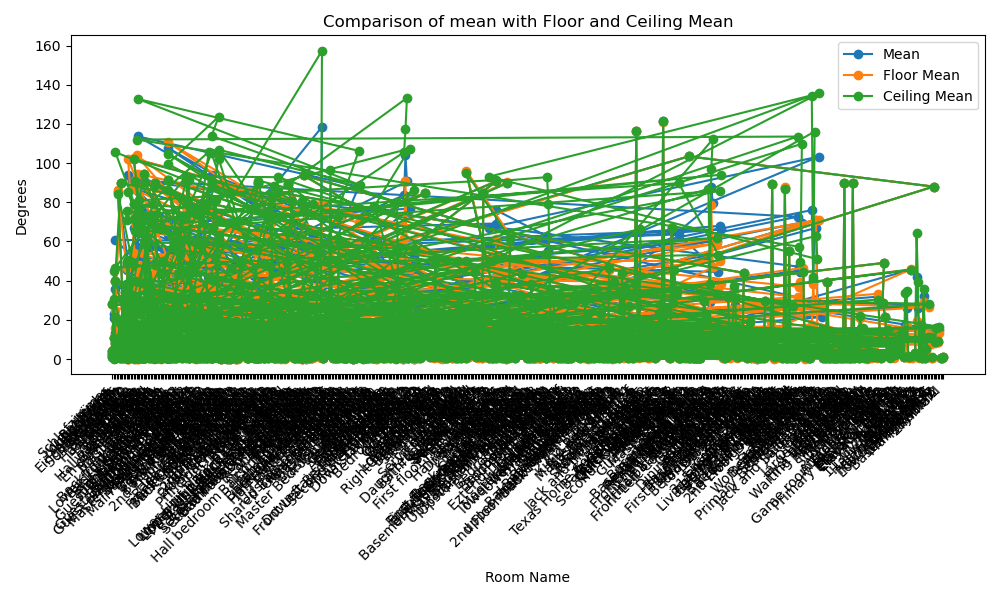
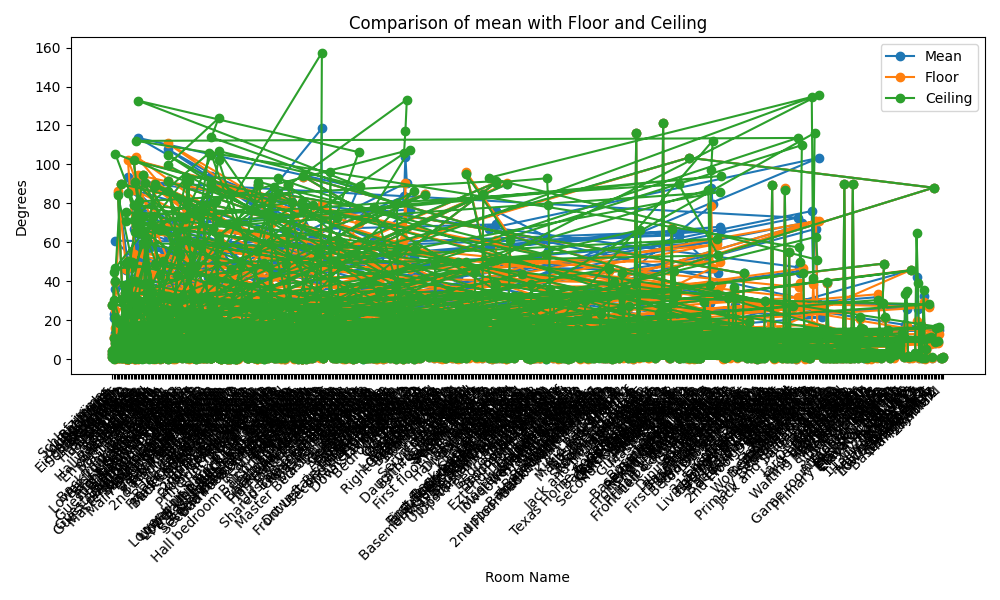
tests for function.py added

diff --git a/function.py b/function.py
@@ -9,8 +9,18 @@ def save_plot(plot_path):
     plt.close()
 
 
+def plot_bar_chart(df, x_col, y_col, colors, title, xlabel, ylabel, plot_path):
+    plt.figure(figsize=(10, 6))
+    plt.bar(df[x_col], df[y_col], color=colors)
+    plt.title(title, fontsize=16)
+    plt.xlabel(xlabel, fontsize=12)
+    plt.ylabel(ylabel, fontsize=12)
+    plt.xticks(rotation=45, ha='right')
+    save_plot(plot_path)
+
+
 def draw_anomalies(df, anomaly_threshold):
-    df['mean_difference'] = abs(df['floor_mean'] - df['ceiling_mean'])
+    df['mean_difference'] = (df['floor_mean'] - df['ceiling_mean']).abs()
     anomalies = df[df['mean_difference'] > anomaly_threshold]
 
     if not anomalies.empty:
@@ -18,17 +28,14 @@ def draw_anomalies(df, anomaly_threshold):
     else:
         print("No anomalies detected.")
 
-    plt.figure(figsize=(10, 6))
     colors = ['red' if diff > anomaly_threshold else 'blue' for diff in df['mean_difference']]
-    plt.bar(df['name'], df['mean_difference'], color=colors)
+    plot_bar_chart(df, 'name', 'mean_difference', colors,
+                   f'Difference between mean deviations for floor and ceiling (Total anomalies: {anomalies.shape[0]})',
+                   'Room', 'Difference between mean deviations',
+                   os.path.join('plots', 'comparison_anomaly.png'))
 
-    plt.title(f'Difference between mean deviations for floor and ceiling (Total anomalies: {anomalies.shape[0]})', fontsize=16)
-    plt.xlabel('Room', fontsize=12)
-    plt.ylabel('Difference between mean deviations', fontsize=12)
-    plt.xticks(rotation=45, ha='right')
+    return os.path.join('plots', 'comparison_anomaly.png')
 
-    save_plot(plot_path := os.path.join('plots', 'comparison_anomaly.png'))
-    return plot_path
 
 def draw_comparison_plots(df):
     comparisons = [
@@ -38,19 +45,18 @@ def draw_comparison_plots(df):
     ]
 
     plot_paths = []
-
-    for comp in comparisons:
+    for label, floor_col, ceiling_col in comparisons:
         plt.figure(figsize=(10, 6))
-        plt.plot(df['name'], df[comp[0]], marker='o', linestyle='-', label='Mean')
-        plt.plot(df['name'], df[comp[1]], marker='o', linestyle='-', label='Floor Mean')
-        plt.plot(df['name'], df[comp[2]], marker='o', linestyle='-', label='Ceiling Mean')
+        plt.plot(df['name'], df[label], marker='o', label='Mean')
+        plt.plot(df['name'], df[floor_col], marker='o', label='Floor')
+        plt.plot(df['name'], df[ceiling_col], marker='o', label='Ceiling')
         plt.xlabel('Room Name')
         plt.ylabel('Degrees')
-        plt.title(f'Comparison of {comp[0]} with Floor and Ceiling Mean')
+        plt.title(f'Comparison of {label} with Floor and Ceiling')
         plt.xticks(rotation=45, ha='right')
         plt.legend()
 
-        plot_path = os.path.join('plots', f'comparison_{comp[0]}.png')
+        plot_path = os.path.join('plots', f'comparison_{label}.png')
         save_plot(plot_path)
         plot_paths.append(plot_path)
 
@@ -71,29 +77,15 @@ def generate_statistics(df):
     for key, value in stats.items():
         print(f"\n{key}:\n", value)
 
-    plt.figure(figsize=(12, 6))
-    stats['Mean Floor Error'].plot(kind='bar', color='blue', label='Mean Floor Error')
-    stats['Mean Ceiling Error'].plot(kind='bar', color='green', label='Mean Ceiling Error', alpha=0.7)
-    plt.title('Average Mean Error per Room')
-    plt.xlabel('Room')
-    plt.ylabel('Average Error')
-    plt.xticks(rotation=45, ha='right')
-    plt.legend()
-    save_plot(plot_path1 := os.path.join('plots', 'average_mean_error_per_room.png'))
+    plot_bar_chart(df, 'name', 'floor_mean', 'blue', 'Average Mean Error per Room', 'Room', 'Average Error',
+                   os.path.join('plots', 'average_mean_error_per_room.png'))
 
-    plt.figure(figsize=(12, 6))
-    stats['Max Floor Error'].plot(kind='bar', color='lightcoral', label='Max Floor Error')
-    stats['Max Ceiling Error'].plot(kind='bar', color='green', label='Max Ceiling Error', alpha=0.7)
-    stats['Min Floor Error'].plot(kind='bar', color='blue', label='Min Floor Error', alpha=0.7)
-    stats['Min Ceiling Error'].plot(kind='bar', color='deepskyblue', label='Min Ceiling Error', alpha=0.7)
-    plt.title('Max and Min Errors per Room')
-    plt.xlabel('Room')
-    plt.ylabel('Error')
-    plt.xticks(rotation=45, ha='right')
-    plt.legend()
-    save_plot(plot_path2 := os.path.join('plots', 'max_min_errors_per_room.png'))
-    
-    return plot_path1, plot_path2
+    plot_bar_chart(df, 'name', 'floor_max', 'lightcoral', 'Max and Min Errors per Room', 'Room', 'Error',
+                   os.path.join('plots', 'max_min_errors_per_room.png'))
+
+    return (os.path.join('plots', 'average_mean_error_per_room.png'),
+            os.path.join('plots', 'max_min_errors_per_room.png'))
+
 
 def draw_plots(json_path):
     try:
@@ -102,8 +94,7 @@ def draw_plots(json_path):
         print(f"Error reading JSON file: {e}")
         return []
 
-    if not os.path.exists('plots'):
-        os.makedirs('plots')
+    os.makedirs('plots', exist_ok=True)
 
     plot_paths = draw_comparison_plots(df)
     plot_paths += generate_statistics(df)

diff --git a/test_function.py b/test_function.py
@@ -1,0 +1,78 @@
+import unittest
+from unittest.mock import patch
+import pandas as pd
+from function import draw_plots, generate_statistics, draw_anomalies
+
+
+class TestDrawPlots(unittest.TestCase):
+
+    @patch("pandas.read_json")
+    @patch("os.makedirs")
+    @patch("function.save_plot")
+
+    def test_draw_plots(self, mock_save_plot, mock_makedirs, mock_read_json):
+        mock_read_json.return_value = pd.DataFrame({
+            'name': ['Room1', 'Room2'],
+            'floor_mean': [6, 12],
+            'ceiling_mean': [7, 12],
+            'gt_corners': [4, 7],
+            'rb_corners': [3, 7],
+            'floor_max': [16, 20],
+            'ceiling_max': [16, 22],
+            'floor_min': [3, 6],
+            'ceiling_min': [2, 5],
+            'mean': [7, 12],
+            'max': [18, 20],
+            'min': [1, 1]
+        })
+
+        result = draw_plots('test_path.json')
+
+        self.assertTrue(len(result) > 0)
+        self.assertTrue(mock_save_plot.called)
+        self.assertTrue(mock_makedirs.called)
+
+    @patch("function.save_plot")
+    def test_generate_statistics(self, mock_save_plot):
+        df = pd.DataFrame({
+            'name': ['Room1', 'Room2'],
+            'floor_mean': [6, 12],
+            'ceiling_mean': [7, 12],
+            'gt_corners': [4, 7],
+            'rb_corners': [3, 7],
+            'floor_max': [16, 20],
+            'ceiling_max': [16, 22],
+            'floor_min': [3, 6],
+            'ceiling_min': [2, 5],
+            'mean': [7, 12],
+            'max': [18, 20],
+            'min': [1, 1]
+        })
+        result = generate_statistics(df)
+
+        self.assertTrue(mock_save_plot.called)
+
+    @patch("function.save_plot")
+    def test_draw_anomalies(self, mock_save_plot):
+        df = pd.DataFrame({
+            'name': ['Room1', 'Room2'],
+            'floor_mean': [6, 12],
+            'ceiling_mean': [7, 12],
+            'gt_corners': [4, 7],
+            'rb_corners': [3, 7],
+            'floor_max': [16, 20],
+            'ceiling_max': [16, 22],
+            'floor_min': [3, 6],
+            'ceiling_min': [2, 5],
+            'mean': [7, 12],
+            'max': [18, 20],
+            'min': [1, 1]
+        })
+
+        anomaly_threshold = 10
+        result = draw_anomalies(df, anomaly_threshold)
+
+        self.assertTrue(mock_save_plot.called)
+
+if __name__ == "__main__":
+    unittest.main()
